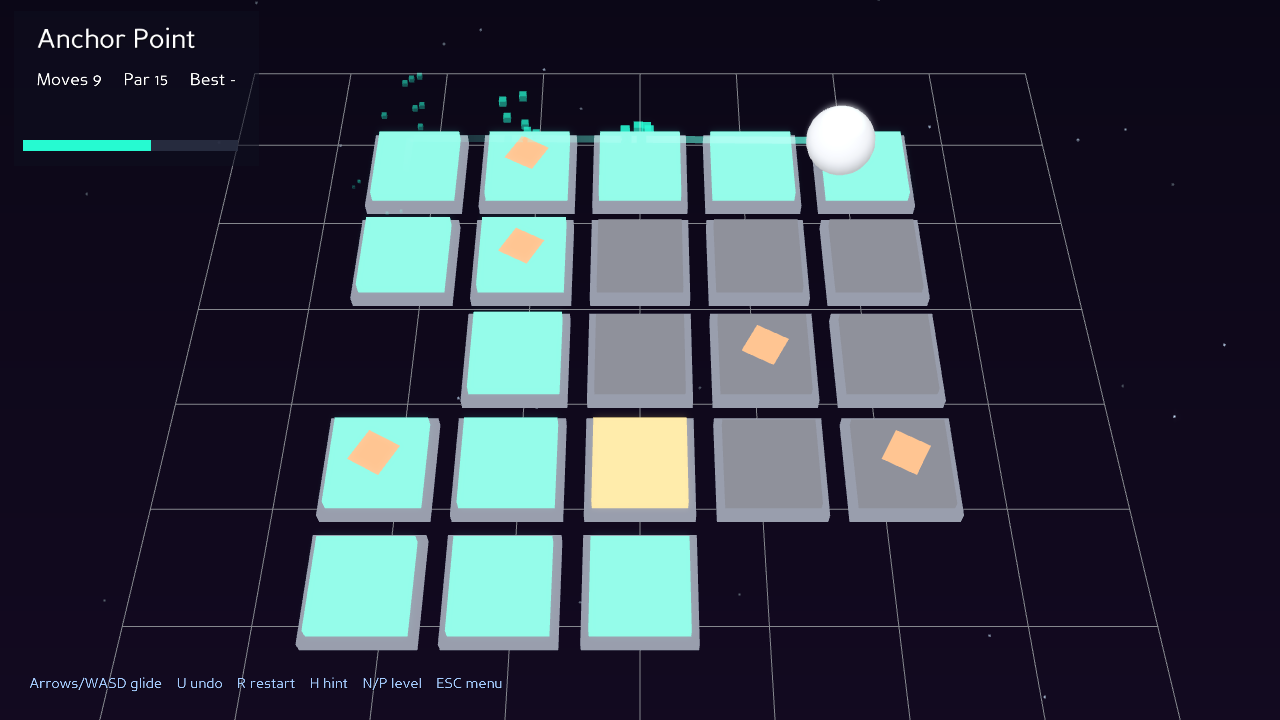
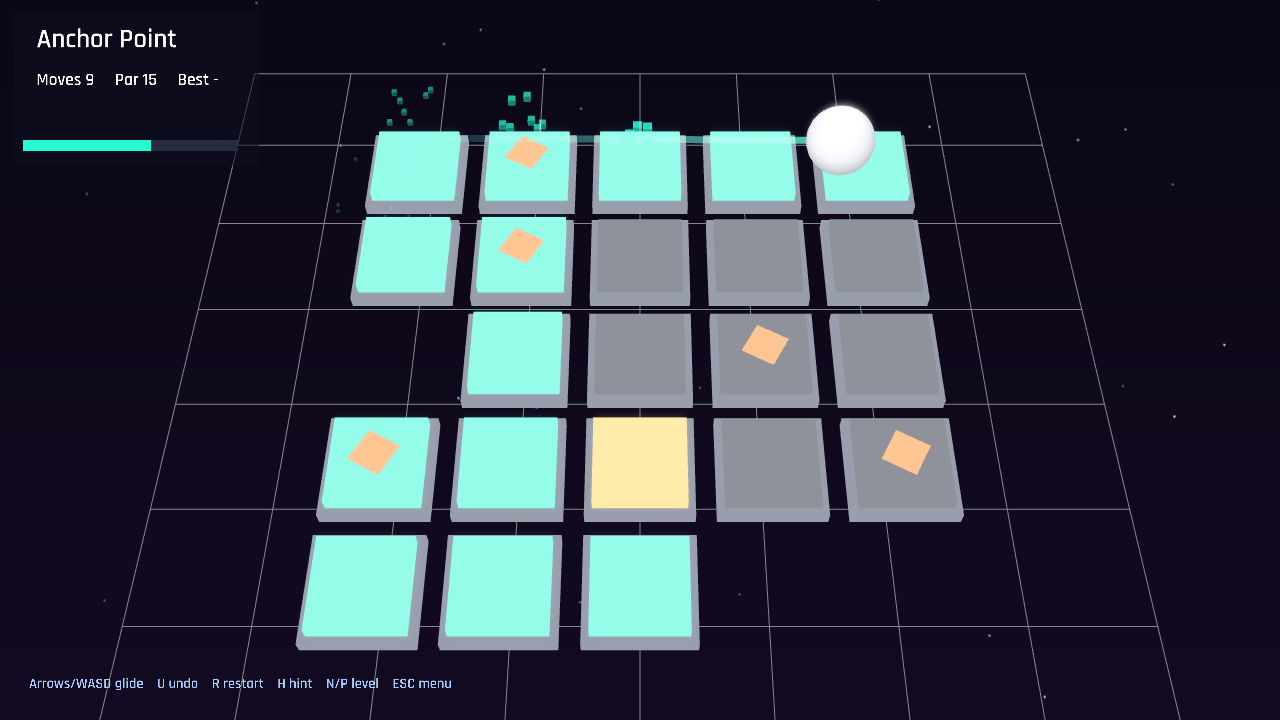
Add gameplay GIF, custom Rajdhani font, and headless --gif capture mode
- Feature a looping gameplay GIF in the README (media/glide.gif)
- Bundle the Rajdhani display font (OFL) for a distinct UI
- Add `--gif <dir>` mode that plays the solver and dumps frames offscreen

diff --git a/glide/app.py b/glide/app.py
@@ -11,6 +11,7 @@ from panda3d.core import (
     AmbientLight,
     ClockObject,
     DirectionalLight,
+    Filename,
     TextNode,
     Vec3,
     Vec4,
@@ -27,6 +28,19 @@ from .level import legal_moves, slide
 MENU, PLAYING, WIN, DONE = range(4)
 globalClock = ClockObject.get_global_clock()
 
+
+def load_game_font(loader):
+    """Load assets/font.ttf (repo root) and make it the default text font."""
+    try:
+        root = os.path.dirname(os.path.dirname(os.path.abspath(__file__)))
+        path = os.path.join(root, "assets", "font.ttf")
+        font = loader.loadFont(Filename.from_os_specific(path).get_fullpath())
+        if font and font.is_valid():
+            font.set_pixels_per_unit(72)
+            TextNode.set_default_font(font)
+    except Exception:
+        pass
+
 KEY_TO_DIR = {
     "arrow_up": "up", "arrow_down": "down",
     "arrow_left": "left", "arrow_right": "right",
@@ -35,8 +49,10 @@ KEY_TO_DIR = {
 
 
 class GlideApp(ShowBase):
-    def __init__(self, debug=False, smoke=False, shot=False, shot_out=None):
+    def __init__(self, debug=False, smoke=False, shot=False, shot_out=None,
+                 gif=False, gif_dir=None):
         ShowBase.__init__(self)
+        load_game_font(self.loader)
         self.setBackgroundColor(*settings.BG_COLOR)
         self.disableMouse()
         self.render.set_shader_auto()
@@ -44,8 +60,10 @@ class GlideApp(ShowBase):
         self.smoke = smoke
         self.shot = shot
         self.shot_out = shot_out
+        self.gif = gif
+        self.gif_dir = gif_dir
         self.frame_count = 0
-        if smoke or shot:
+        if smoke or shot or gif:
             globalClock.set_mode(ClockObject.M_non_real_time)
             globalClock.set_frame_rate(60)
 
@@ -72,7 +90,7 @@ class GlideApp(ShowBase):
 
         if smoke:
             self.load_level(0)
-        elif shot:
+        elif shot or gif:
             self.load_level(min(3, len(self.level_paths) - 1))
         else:
             self.enter_menu()
@@ -167,7 +185,7 @@ class GlideApp(ShowBase):
         self.state = PLAYING
         self._update_hud()
 
-        if self.smoke or self.shot:
+        if self.smoke or self.shot or self.gif:
             self.auto_solution = solver.solve(self.level, self.player, self.filled)
             self.auto_index = 0
 
@@ -297,7 +315,7 @@ class GlideApp(ShowBase):
             if self.toast_t <= 0 and self.toast_node:
                 self.toast_node.destroy()
                 self.toast_node = None
-        if self.smoke or self.shot:
+        if self.smoke or self.shot or self.gif:
             self._auto_step()
         return task.cont
 
@@ -330,6 +348,24 @@ class GlideApp(ShowBase):
     # -- headless helpers ----------------------------------------------------
     def _auto_step(self):
         self.frame_count += 1
+        if self.gif:
+            # capture every frame (incl. the slide animation) as the solver plays
+            if not self.animating:
+                sol = getattr(self, "auto_solution", None) or []
+                if self.auto_index < len(sol):
+                    self._on_move(sol[self.auto_index])
+                    self.auto_index += 1
+                else:
+                    self._gif_tail = getattr(self, "_gif_tail", 0) + 1
+            os.makedirs(self.gif_dir, exist_ok=True)
+            self.graphicsEngine.render_frame()
+            fn = Filename.from_os_specific(
+                os.path.join(self.gif_dir, "f{:05d}.png".format(self.frame_count))).get_fullpath()
+            self.screenshot(namePrefix=fn, defaultFilename=False)
+            if getattr(self, "_gif_tail", 0) > 24 or self.frame_count > 900:
+                print("GIF FRAMES DONE:", self.gif_dir)
+                sys.exit(0)
+            return
         if self.animating:
             return
         if self.shot:

diff --git a/run.py b/run.py
@@ -18,24 +18,28 @@ def main():
     parser.add_argument("--smoke", action="store_true")
     parser.add_argument("--shot", action="store_true")
     parser.add_argument("--shot-out", default=None)
+    parser.add_argument("--gif", default=None, help="capture gameplay frames to this dir")
     parser.add_argument("--debug", action="store_true")
     args = parser.parse_args()
 
     load_prc_file_data("", "window-title GLIDE")
     load_prc_file_data("", "framebuffer-multisample 1")
     load_prc_file_data("", "multisamples 4")
-    if args.smoke or args.shot:
+    if args.smoke or args.shot or args.gif:
         load_prc_file_data("", "window-type offscreen")
         load_prc_file_data("", "audio-library-name null")
     if args.shot:
         load_prc_file_data("", "win-size 1280 720")
+    if args.gif:
+        load_prc_file_data("", "win-size 900 560")
     if args.debug:
         load_prc_file_data("", "show-frame-rate-meter true")
 
     from glide.app import GlideApp
 
     app = GlideApp(debug=args.debug, smoke=args.smoke,
-                   shot=args.shot, shot_out=args.shot_out)
+                   shot=args.shot, shot_out=args.shot_out,
+                   gif=bool(args.gif), gif_dir=args.gif)
     app.run()
 
 